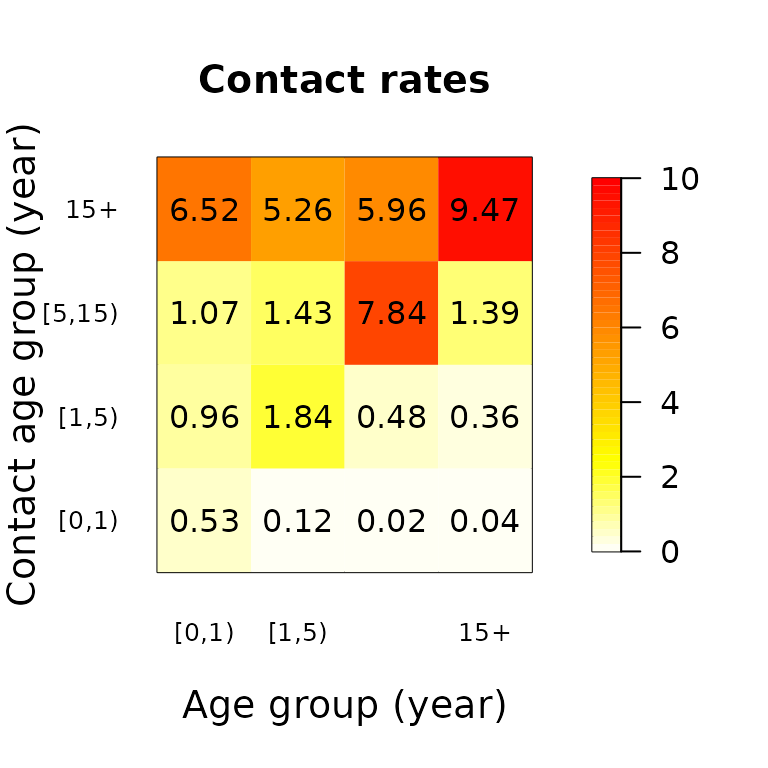
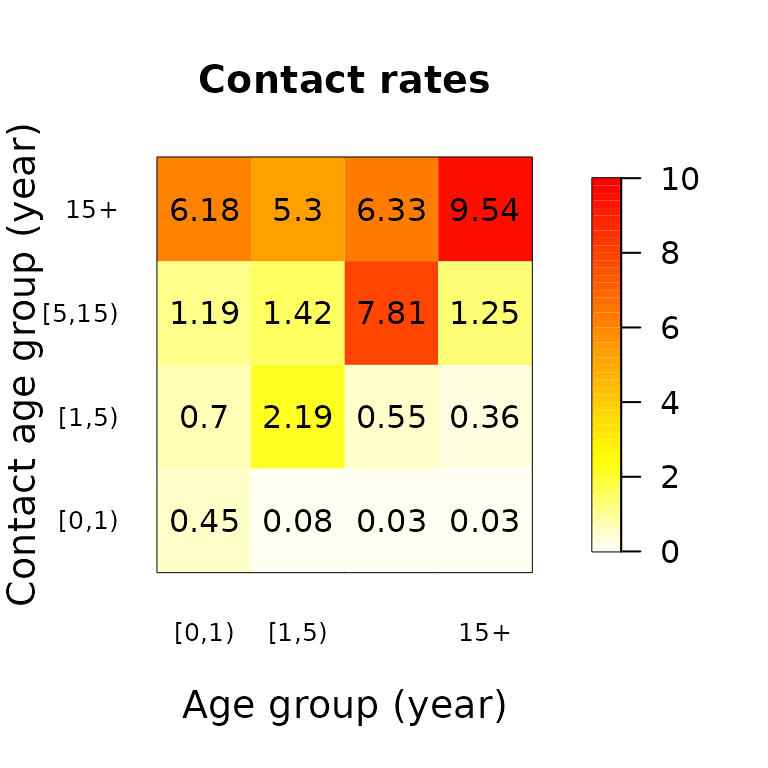
Deploying to gh-pages from @ epiforecasts/socialmixr@c8f58468314198e9993319ce2b0fa76208a085d5 🚀

diff --git a/articles/socialmixr.html b/articles/socialmixr.html
@@ -72,7 +72,7 @@
                         <h4 data-toc-skip class="author">Sebastian
 Funk</h4>
             
-            <h4 data-toc-skip class="date">2023-07-14</h4>
+            <h4 data-toc-skip class="date">2023-07-25</h4>
       
       <small class="dont-index">Source: <a href="https://github.com/epiforecasts/socialmixr/blob/HEAD/vignettes/socialmixr.Rmd" class="external-link"><code>vignettes/socialmixr.Rmd</code></a></small>
       <div class="d-none name"><code>socialmixr.Rmd</code></div>
@@ -201,9 +201,11 @@ participants of the original study) every time the
 matrix returned every time. From these matrices, derived quantities can
 be obtained, for example the mean:</p>
 <div class="sourceCode" id="cb13"><pre class="downlit sourceCode r">
-<code class="sourceCode R"><span><span class="va">m</span> <span class="op">&lt;-</span> <span class="fu"><a href="https://rdrr.io/r/base/lapply.html" class="external-link">replicate</a></span><span class="op">(</span>n <span class="op">=</span> <span class="fl">5</span>,</span>
+<code class="sourceCode R"><span><span class="va">m</span> <span class="op">&lt;-</span> <span class="fu"><a href="https://rdrr.io/r/base/lapply.html" class="external-link">replicate</a></span><span class="op">(</span></span>
+<span>  n <span class="op">=</span> <span class="fl">5</span>,</span>
 <span>  <span class="fu"><a href="../reference/contact_matrix.html">contact_matrix</a></span><span class="op">(</span></span>
-<span>    <span class="va">polymod</span>, countries <span class="op">=</span> <span class="st">"United Kingdom"</span>, age.limits <span class="op">=</span> <span class="fu"><a href="https://rdrr.io/r/base/c.html" class="external-link">c</a></span><span class="op">(</span><span class="fl">0</span>, <span class="fl">1</span>, <span class="fl">5</span>, <span class="fl">15</span><span class="op">)</span>,</span>
+<span>    <span class="va">polymod</span>,</span>
+<span>    countries <span class="op">=</span> <span class="st">"United Kingdom"</span>, age.limits <span class="op">=</span> <span class="fu"><a href="https://rdrr.io/r/base/c.html" class="external-link">c</a></span><span class="op">(</span><span class="fl">0</span>, <span class="fl">1</span>, <span class="fl">5</span>, <span class="fl">15</span><span class="op">)</span>,</span>
 <span>    sample.participants <span class="op">=</span> <span class="cn">TRUE</span></span>
 <span>  <span class="op">)</span></span>
 <span><span class="op">)</span></span>
@@ -221,10 +223,10 @@ be obtained, for example the mean:</p>
 <span><span class="va">mr</span></span>
 <span><span class="co">#&gt;          contact.age.group</span></span>
 <span><span class="co">#&gt; age.group      [0,1)     [1,5)   [5,15)      15+</span></span>
-<span><span class="co">#&gt;    [0,1)  0.53142857 0.9612987 1.072900 6.520606</span></span>
-<span><span class="co">#&gt;    [1,5)  0.12104713 1.8384138 1.432592 5.256373</span></span>
-<span><span class="co">#&gt;    [5,15) 0.01669702 0.4787611 7.841558 5.962512</span></span>
-<span><span class="co">#&gt;    15+    0.03586842 0.3602275 1.386865 9.473834</span></span></code></pre></div>
+<span><span class="co">#&gt;    [0,1)  0.44666667 0.6963889 1.193611 6.183056</span></span>
+<span><span class="co">#&gt;    [1,5)  0.07884911 2.1858179 1.417965 5.298078</span></span>
+<span><span class="co">#&gt;    [5,15) 0.02904399 0.5520634 7.810067 6.332484</span></span>
+<span><span class="co">#&gt;    15+    0.03028696 0.3561746 1.251760 9.536006</span></span></code></pre></div>
 </div>
 <div class="section level2">
 <h2 id="demography">Demography<a class="anchor" aria-label="anchor" href="#demography"></a>
@@ -247,8 +249,10 @@ the results list. It is possible to enforce or prevent the function to
 return demography data by using the <code>return.demography</code>
 option.</p>
 <div class="sourceCode" id="cb14"><pre class="downlit sourceCode r">
-<code class="sourceCode R"><span><span class="fu"><a href="../reference/contact_matrix.html">contact_matrix</a></span><span class="op">(</span><span class="va">polymod</span>, countries <span class="op">=</span> <span class="st">"United Kingdom"</span>, age.limits <span class="op">=</span> <span class="fu"><a href="https://rdrr.io/r/base/c.html" class="external-link">c</a></span><span class="op">(</span><span class="fl">0</span>, <span class="fl">20</span><span class="op">)</span>,</span>
-<span>               return.demography <span class="op">=</span> <span class="cn">TRUE</span><span class="op">)</span><span class="op">$</span><span class="va">demography</span></span>
+<code class="sourceCode R"><span><span class="fu"><a href="../reference/contact_matrix.html">contact_matrix</a></span><span class="op">(</span><span class="va">polymod</span>,</span>
+<span>  countries <span class="op">=</span> <span class="st">"United Kingdom"</span>, age.limits <span class="op">=</span> <span class="fu"><a href="https://rdrr.io/r/base/c.html" class="external-link">c</a></span><span class="op">(</span><span class="fl">0</span>, <span class="fl">20</span><span class="op">)</span>,</span>
+<span>  return.demography <span class="op">=</span> <span class="cn">TRUE</span></span>
+<span><span class="op">)</span><span class="op">$</span><span class="va">demography</span></span>
 <span><span class="co">#&gt;    age.group population proportion year</span></span>
 <span><span class="co">#&gt; 1:    [0,20)   14799290  0.2454816 2005</span></span>
 <span><span class="co">#&gt; 2:       20+   45487461  0.7545184 2005</span></span></code></pre></div>
@@ -489,8 +493,10 @@ N_g\]</span></p>
 calculated by default. It is possible to obtain the participant weights
 via the option <code>return.part.weights = TRUE</code>.</p>
 <div class="sourceCode" id="cb19"><pre class="downlit sourceCode r">
-<code class="sourceCode R"><span><span class="fu"><a href="../reference/contact_matrix.html">contact_matrix</a></span><span class="op">(</span>survey <span class="op">=</span> <span class="va">polymod</span>, age.limits <span class="op">=</span> <span class="fu"><a href="https://rdrr.io/r/base/c.html" class="external-link">c</a></span><span class="op">(</span><span class="fl">0</span>, <span class="fl">18</span>, <span class="fl">60</span><span class="op">)</span>, weigh.dayofweek <span class="op">=</span> <span class="cn">TRUE</span>,</span>
-<span>               weigh.age <span class="op">=</span> <span class="cn">TRUE</span>, return.part.weights <span class="op">=</span> <span class="cn">TRUE</span><span class="op">)</span></span>
+<code class="sourceCode R"><span><span class="fu"><a href="../reference/contact_matrix.html">contact_matrix</a></span><span class="op">(</span></span>
+<span>  survey <span class="op">=</span> <span class="va">polymod</span>, age.limits <span class="op">=</span> <span class="fu"><a href="https://rdrr.io/r/base/c.html" class="external-link">c</a></span><span class="op">(</span><span class="fl">0</span>, <span class="fl">18</span>, <span class="fl">60</span><span class="op">)</span>, weigh.dayofweek <span class="op">=</span> <span class="cn">TRUE</span>,</span>
+<span>  weigh.age <span class="op">=</span> <span class="cn">TRUE</span>, return.part.weights <span class="op">=</span> <span class="cn">TRUE</span></span>
+<span><span class="op">)</span></span>
 <span><span class="co">#&gt; $matrix</span></span>
 <span><span class="co">#&gt;          contact.age.group</span></span>
 <span><span class="co">#&gt; age.group    [0,18)   [18,60)       60+</span></span>
@@ -561,8 +567,10 @@ to make sure that the sum of the weights still equals the sample size.
 The latter can lead to final weights of which some little exceed the
 given threshold value.</p>
 <div class="sourceCode" id="cb21"><pre class="downlit sourceCode r">
-<code class="sourceCode R"><span><span class="fu"><a href="../reference/contact_matrix.html">contact_matrix</a></span><span class="op">(</span>survey <span class="op">=</span> <span class="va">polymod</span>, age.limits <span class="op">=</span> <span class="fu"><a href="https://rdrr.io/r/base/c.html" class="external-link">c</a></span><span class="op">(</span><span class="fl">0</span>, <span class="fl">18</span>, <span class="fl">60</span><span class="op">)</span>, weigh.dayofweek <span class="op">=</span> <span class="cn">TRUE</span>,</span>
-<span>               weigh.age <span class="op">=</span> <span class="cn">TRUE</span>, return.part.weights <span class="op">=</span> <span class="cn">TRUE</span>, weight.threshold <span class="op">=</span> <span class="fl">3</span><span class="op">)</span></span>
+<code class="sourceCode R"><span><span class="fu"><a href="../reference/contact_matrix.html">contact_matrix</a></span><span class="op">(</span></span>
+<span>  survey <span class="op">=</span> <span class="va">polymod</span>, age.limits <span class="op">=</span> <span class="fu"><a href="https://rdrr.io/r/base/c.html" class="external-link">c</a></span><span class="op">(</span><span class="fl">0</span>, <span class="fl">18</span>, <span class="fl">60</span><span class="op">)</span>, weigh.dayofweek <span class="op">=</span> <span class="cn">TRUE</span>,</span>
+<span>  weigh.age <span class="op">=</span> <span class="cn">TRUE</span>, return.part.weights <span class="op">=</span> <span class="cn">TRUE</span>, weight.threshold <span class="op">=</span> <span class="fl">3</span></span>
+<span><span class="op">)</span></span>
 <span><span class="co">#&gt; $matrix</span></span>
 <span><span class="co">#&gt;          contact.age.group</span></span>
 <span><span class="co">#&gt; age.group    [0,18)   [18,60)       60+</span></span>
@@ -662,14 +670,14 @@ reported number of contacts per participant <span class="math inline">\(i\)</spa
 <p>The summary statistics for the sample (N) and reference population
 (P) are as follows</p>
 <div class="sourceCode" id="cb22"><pre class="downlit sourceCode r">
-<code class="sourceCode R"><span><span class="va">N</span>             <span class="op">&lt;-</span> <span class="fl">6</span></span>
-<span><span class="va">N_age</span>         <span class="op">&lt;-</span> <span class="fu"><a href="https://rdrr.io/r/base/c.html" class="external-link">c</a></span><span class="op">(</span><span class="fl">2</span>, <span class="fl">3</span>, <span class="fl">1</span><span class="op">)</span></span>
-<span><span class="va">N_age.group</span>   <span class="op">&lt;-</span> <span class="fu"><a href="https://rdrr.io/r/base/c.html" class="external-link">c</a></span><span class="op">(</span><span class="fl">5</span>, <span class="fl">1</span><span class="op">)</span></span>
+<code class="sourceCode R"><span><span class="va">N</span> <span class="op">&lt;-</span> <span class="fl">6</span></span>
+<span><span class="va">N_age</span> <span class="op">&lt;-</span> <span class="fu"><a href="https://rdrr.io/r/base/c.html" class="external-link">c</a></span><span class="op">(</span><span class="fl">2</span>, <span class="fl">3</span>, <span class="fl">1</span><span class="op">)</span></span>
+<span><span class="va">N_age.group</span> <span class="op">&lt;-</span> <span class="fu"><a href="https://rdrr.io/r/base/c.html" class="external-link">c</a></span><span class="op">(</span><span class="fl">5</span>, <span class="fl">1</span><span class="op">)</span></span>
 <span><span class="va">N_day.of.week</span> <span class="op">&lt;-</span> <span class="fu"><a href="https://rdrr.io/r/base/c.html" class="external-link">c</a></span><span class="op">(</span><span class="fl">3</span>, <span class="fl">3</span><span class="op">)</span></span>
 <span></span>
-<span><span class="va">P</span>             <span class="op">&lt;-</span> <span class="fl">3000</span></span>
-<span><span class="va">P_age</span>         <span class="op">&lt;-</span> <span class="fu"><a href="https://rdrr.io/r/base/c.html" class="external-link">c</a></span><span class="op">(</span><span class="fl">1000</span>, <span class="fl">1000</span>, <span class="fl">1000</span><span class="op">)</span></span>
-<span><span class="va">P_age.group</span>   <span class="op">&lt;-</span> <span class="fu"><a href="https://rdrr.io/r/base/c.html" class="external-link">c</a></span><span class="op">(</span><span class="fl">2000</span>, <span class="fl">1000</span><span class="op">)</span></span>
+<span><span class="va">P</span> <span class="op">&lt;-</span> <span class="fl">3000</span></span>
+<span><span class="va">P_age</span> <span class="op">&lt;-</span> <span class="fu"><a href="https://rdrr.io/r/base/c.html" class="external-link">c</a></span><span class="op">(</span><span class="fl">1000</span>, <span class="fl">1000</span>, <span class="fl">1000</span><span class="op">)</span></span>
+<span><span class="va">P_age.group</span> <span class="op">&lt;-</span> <span class="fu"><a href="https://rdrr.io/r/base/c.html" class="external-link">c</a></span><span class="op">(</span><span class="fl">2000</span>, <span class="fl">1000</span><span class="op">)</span></span>
 <span></span>
 <span><span class="va">P_day.of.week</span> <span class="op">&lt;-</span> <span class="fu"><a href="https://rdrr.io/r/base/c.html" class="external-link">c</a></span><span class="op">(</span><span class="fl">5</span> <span class="op">/</span> <span class="fl">7</span>, <span class="fl">2</span> <span class="op">/</span> <span class="fl">7</span><span class="op">)</span> <span class="op">*</span> <span class="fl">3000</span></span></code></pre></div>
 <p>This survey data results in an unweighted average number of
@@ -1307,11 +1315,6 @@ this can be changed.</p>
 <div class="sourceCode" id="cb30"><pre class="downlit sourceCode r">
 <code class="sourceCode R"><span><span class="fu"><a href="../reference/matrix_plot.html">matrix_plot</a></span><span class="op">(</span><span class="va">mr</span>, color.palette <span class="op">=</span> <span class="va">gray.colors</span><span class="op">)</span></span></code></pre></div>
 <p><img src="socialmixr_files/figure-html/unnamed-chunk-39-2.png" width="384"></p>
-<div class="sourceCode" id="cb31"><pre class="downlit sourceCode r">
-<code class="sourceCode R"><span></span>
-<span><span class="va">usr_col</span> <span class="op">&lt;-</span> <span class="kw">function</span><span class="op">(</span><span class="va">x</span><span class="op">)</span> <span class="op">{</span> <span class="kw"><a href="https://rdrr.io/r/base/function.html" class="external-link">return</a></span><span class="op">(</span><span class="fu">grDevices</span><span class="fu">::</span><span class="fu"><a href="https://rdrr.io/r/grDevices/palettes.html" class="external-link">hcl.colors</a></span><span class="op">(</span><span class="va">x</span>, <span class="st">"YlGn"</span><span class="op">)</span><span class="op">)</span> <span class="op">}</span> <span class="co"># nolint</span></span>
-<span><span class="fu"><a href="../reference/matrix_plot.html">matrix_plot</a></span><span class="op">(</span><span class="va">mr</span>, num.colors <span class="op">=</span> <span class="fl">9</span>, color.palette <span class="op">=</span> <span class="va">usr_col</span><span class="op">)</span></span></code></pre></div>
-<p><img src="socialmixr_files/figure-html/unnamed-chunk-39-3.png" width="384"></p>
 </div>
 </div>
 <div class="section level2">

diff --git a/reference/matrix_plot.html b/reference/matrix_plot.html
@@ -142,7 +142,7 @@
     <div class="section level2">
     <h2 id="ref-examples">Examples<a class="anchor" aria-label="anchor" href="#ref-examples"></a></h2>
     <div class="sourceCode"><pre class="sourceCode r"><code><span class="r-in"><span><span class="fu"><a href="https://rdrr.io/r/utils/data.html" class="external-link">data</a></span><span class="op">(</span><span class="va">polymod</span><span class="op">)</span></span></span>
-<span class="r-in"><span><span class="va">mij</span> <span class="op">&lt;-</span> <span class="fu"><a href="contact_matrix.html">contact_matrix</a></span><span class="op">(</span><span class="va">polymod</span>, countries <span class="op">=</span> <span class="st">"United Kingdom"</span>, age.limits <span class="op">=</span> <span class="fu"><a href="https://rdrr.io/r/base/c.html" class="external-link">c</a></span><span class="op">(</span><span class="fl">0</span>, <span class="fl">18</span>,<span class="fl">65</span><span class="op">)</span><span class="op">)</span><span class="op">$</span><span class="va">matrix</span></span></span>
+<span class="r-in"><span><span class="va">mij</span> <span class="op">&lt;-</span> <span class="fu"><a href="contact_matrix.html">contact_matrix</a></span><span class="op">(</span><span class="va">polymod</span>, countries <span class="op">=</span> <span class="st">"United Kingdom"</span>, age.limits <span class="op">=</span> <span class="fu"><a href="https://rdrr.io/r/base/c.html" class="external-link">c</a></span><span class="op">(</span><span class="fl">0</span>, <span class="fl">18</span>, <span class="fl">65</span><span class="op">)</span><span class="op">)</span><span class="op">$</span><span class="va">matrix</span></span></span>
 <span class="r-msg co"><span class="r-pr">#&gt;</span> Using POLYMOD social contact data. To cite this in a publication, use the 'cite' function</span>
 <span class="r-msg co"><span class="r-pr">#&gt;</span> Removing participants that have contacts without age information. To change this behaviour, set the 'missing.contact.age' option</span>
 <span class="r-in"><span><span class="fu">matrix_plot</span><span class="op">(</span><span class="va">mij</span><span class="op">)</span></span></span>

diff --git a/reference/load_survey.html b/reference/load_survey.html
@@ -77,9 +77,9 @@
     <div class="section level2">
     <h2 id="ref-examples">Examples<a class="anchor" aria-label="anchor" href="#ref-examples"></a></h2>
     <div class="sourceCode"><pre class="sourceCode r"><code><span class="r-in"><span><span class="kw">if</span> <span class="op">(</span><span class="cn">FALSE</span><span class="op">)</span> <span class="op">{</span></span></span>
-<span class="r-in"><span>  <span class="fu"><a href="list_surveys.html">list_surveys</a></span><span class="op">(</span><span class="op">)</span></span></span>
-<span class="r-in"><span>  <span class="va">peru_files</span> <span class="op">&lt;-</span> <span class="fu"><a href="download_survey.html">download_survey</a></span><span class="op">(</span><span class="st">"https://doi.org/10.5281/zenodo.1095664"</span><span class="op">)</span></span></span>
-<span class="r-in"><span>  <span class="va">peru_survey</span> <span class="op">&lt;-</span> <span class="fu">load_survey</span><span class="op">(</span><span class="va">peru_files</span><span class="op">)</span></span></span>
+<span class="r-in"><span><span class="fu"><a href="list_surveys.html">list_surveys</a></span><span class="op">(</span><span class="op">)</span></span></span>
+<span class="r-in"><span><span class="va">peru_files</span> <span class="op">&lt;-</span> <span class="fu"><a href="download_survey.html">download_survey</a></span><span class="op">(</span><span class="st">"https://doi.org/10.5281/zenodo.1095664"</span><span class="op">)</span></span></span>
+<span class="r-in"><span><span class="va">peru_survey</span> <span class="op">&lt;-</span> <span class="fu">load_survey</span><span class="op">(</span><span class="va">peru_files</span><span class="op">)</span></span></span>
 <span class="r-in"><span><span class="op">}</span></span></span>
 </code></pre></div>
     </div>

diff --git a/reference/get_survey.html b/reference/get_survey.html
@@ -77,8 +77,8 @@
     <div class="section level2">
     <h2 id="ref-examples">Examples<a class="anchor" aria-label="anchor" href="#ref-examples"></a></h2>
     <div class="sourceCode"><pre class="sourceCode r"><code><span class="r-in"><span><span class="kw">if</span> <span class="op">(</span><span class="cn">FALSE</span><span class="op">)</span> <span class="op">{</span></span></span>
-<span class="r-in"><span>  <span class="fu"><a href="list_surveys.html">list_surveys</a></span><span class="op">(</span><span class="op">)</span></span></span>
-<span class="r-in"><span>  <span class="va">peru_survey</span> <span class="op">&lt;-</span> <span class="fu">get_survey</span><span class="op">(</span><span class="st">"https://doi.org/10.5281/zenodo.1095664"</span><span class="op">)</span></span></span>
+<span class="r-in"><span><span class="fu"><a href="list_surveys.html">list_surveys</a></span><span class="op">(</span><span class="op">)</span></span></span>
+<span class="r-in"><span><span class="va">peru_survey</span> <span class="op">&lt;-</span> <span class="fu">get_survey</span><span class="op">(</span><span class="st">"https://doi.org/10.5281/zenodo.1095664"</span><span class="op">)</span></span></span>
 <span class="r-in"><span><span class="op">}</span></span></span>
 </code></pre></div>
     </div>

diff --git a/reference/list_surveys.html b/reference/list_surveys.html
@@ -67,7 +67,7 @@
     <div class="section level2">
     <h2 id="ref-examples">Examples<a class="anchor" aria-label="anchor" href="#ref-examples"></a></h2>
     <div class="sourceCode"><pre class="sourceCode r"><code><span class="r-in"><span><span class="kw">if</span> <span class="op">(</span><span class="cn">FALSE</span><span class="op">)</span> <span class="op">{</span></span></span>
-<span class="r-in"><span>  <span class="fu">list_surveys</span><span class="op">(</span><span class="op">)</span></span></span>
+<span class="r-in"><span><span class="fu">list_surveys</span><span class="op">(</span><span class="op">)</span></span></span>
 <span class="r-in"><span><span class="op">}</span></span></span>
 </code></pre></div>
     </div>
